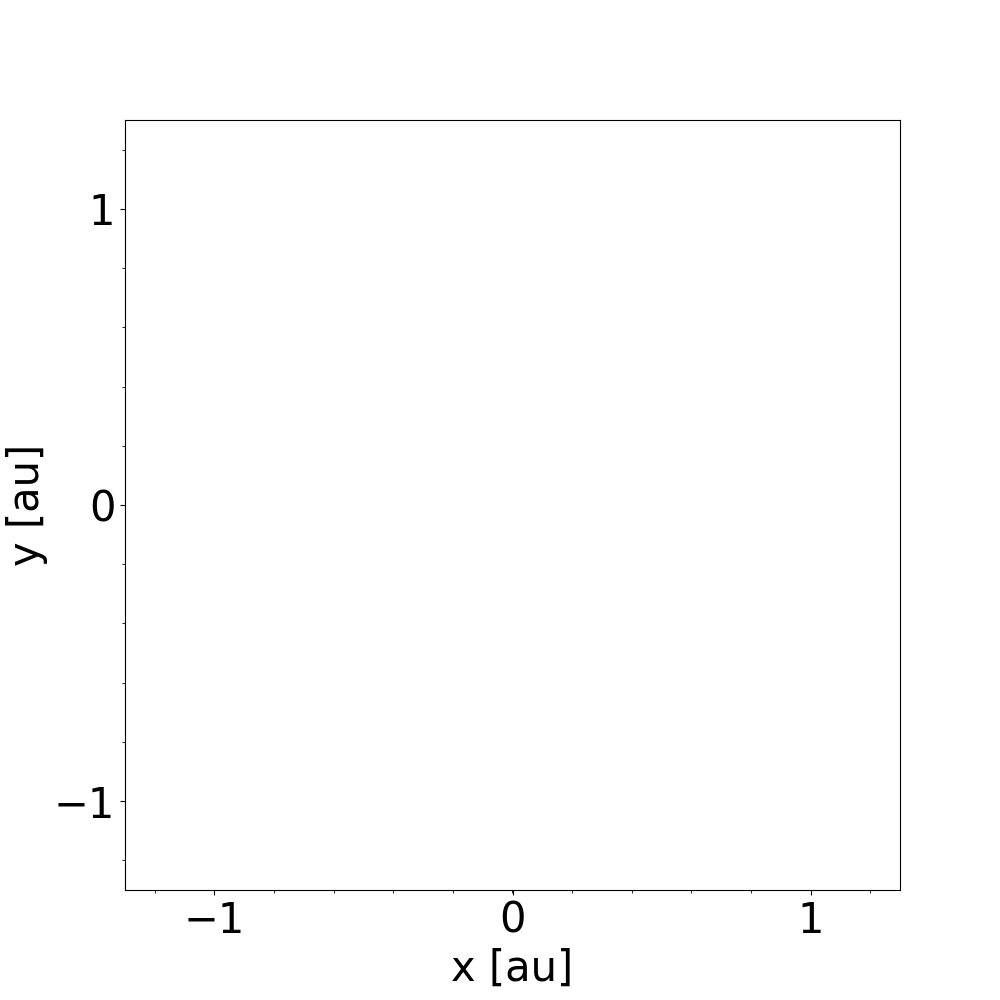
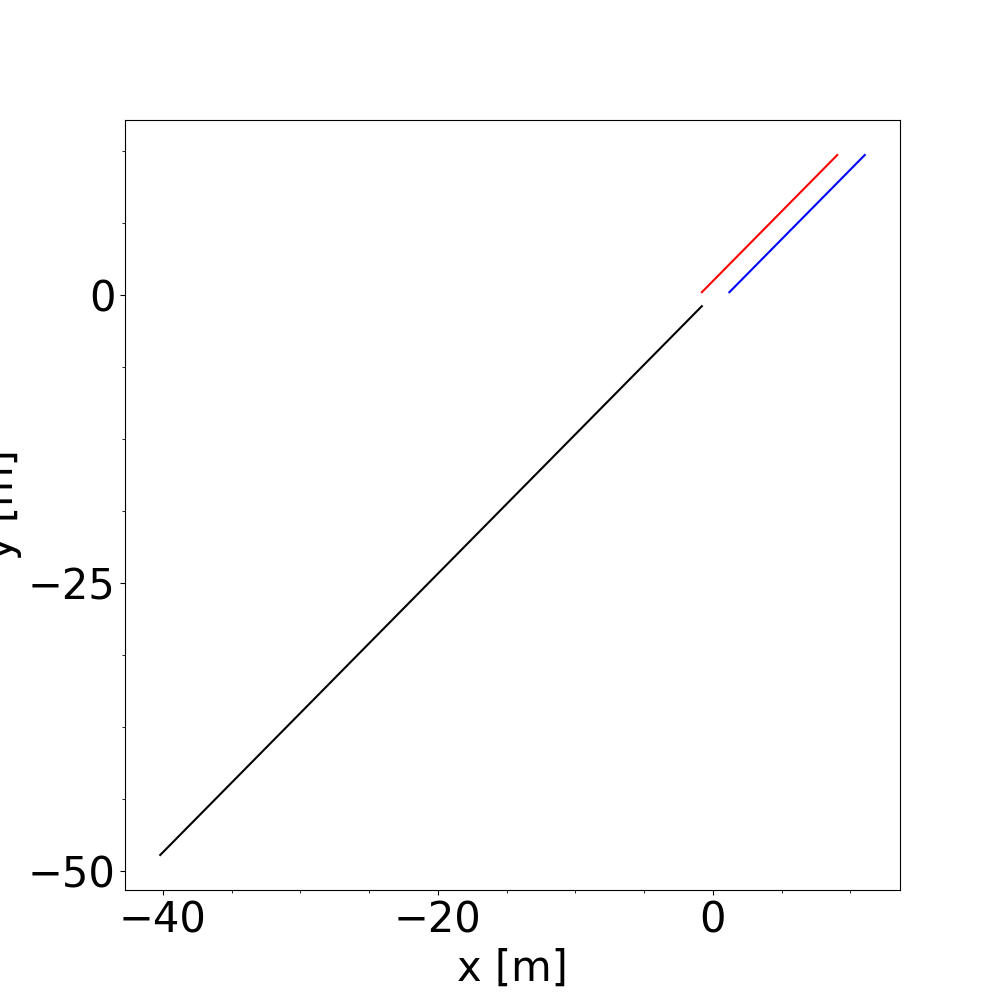
proper nbody units

diff --git a/sun_venus_earth_with_units.py b/sun_venus_earth_with_units.py
@@ -1,29 +1,31 @@
 ###BOOKLISTSTART1###
 from amuse.lab import Particles, units
+from amuse.lab import SmallN, Huayno, nbody_system
+    
 
 v1 = 0.2009656237
 v2 = 0.2431076328
-T = 19.0134164290 | units.yr
+T = 20 | nbody_system.time
 
 def sun_venus_and_earth():
     particles = Particles(3)
     sun = particles[0]
-    sun.mass = 1.0 | units.MSun
-    sun.radius = 1.0 | units.RSun
-    sun.position = (-1, 0., 0.) | units.AU
-    sun.velocity = (v1, v2, 0) | (units.AU / units.yr)
+    sun.mass = 1.0 | nbody_system.mass
+    #sun.radius = 1.0 | units.RSun
+    sun.position = (-1, 0., 0.) | nbody_system.length
+    sun.velocity = (v1, v2, 0) | nbody_system.speed
     
     venus = particles[1]
-    venus.mass = 1.0 | units.MSun
-    venus.radius = 1.0 | units.RSun
-    venus.position = (1., 0., 0.) | units.AU
-    venus.velocity = (v1, v2, 0.) | (units.AU / units.yr)
+    venus.mass = 1.0 | nbody_system.mass
+    #venus.radius = 1.0 | units.RSun
+    venus.position = (1., 0., 0.) | nbody_system.length
+    venus.velocity = (v1, v2, 0.) | nbody_system.speed
     
     earth = particles[2]
-    earth.mass = 0.5 | units.MSun
-    earth.radius = 0.79 | units.RSun
-    earth.position = (0., 0., 0.) | units.AU
-    earth.velocity = (-4 * v1, -4 * v2, 0.) | (units.AU / units.yr)
+    earth.mass = 0.5 | nbody_system.mass
+    #earth.radius = 1.0 | units.RSun
+    earth.position = (0., 0., 0.) | nbody_system.length
+    earth.velocity = (-4 * v1, -4 * v2, 0.) | nbody_system.speed
     
     particles.move_to_center()
     return particles
@@ -31,32 +33,30 @@ def sun_venus_and_earth():
 
 ###BOOKLISTSTART2###
 def integrate_solar_system(particles, end_time):
-    from amuse.lab import SmallN, nbody_system
-    from amuse.units.generic_unit_converter import ConvertBetweenGenericAndSiUnits
     from amuse.units import constants, units
     #print(particles)
-    convert_body = nbody_system.nbody_to_si(particles.mass.sum(),
-                                            particles[1].position.length())
+    #convert_body = nbody_system.nbody_to_si(particles.mass.sum(),
+    #                                        particles[1].position.length())
 
-    gravity = SmallN(convert_body)
+    gravity = Huayno()
     gravity.particles.add_particles(particles)
     sun = gravity.particles[0]
     venus = gravity.particles[1]
     earth = gravity.particles[2]
     
     
-    x_earth = [] | units.AU
-    y_earth = [] | units.AU
-    x_venus = [] | units.AU
-    y_venus = [] | units.AU
-    x_sun = [] | units.AU
-    y_sun = [] | units.AU
+    x_earth = [] | nbody_system.length
+    y_earth = [] | nbody_system.length
+    x_venus = [] | nbody_system.length
+    y_venus = [] | nbody_system.length
+    x_sun = [] | nbody_system.length
+    y_sun = [] | nbody_system.length
     
     while gravity.model_time < end_time:
         
-        gravity.evolve_model(gravity.model_time + (1 | units.day))
+        gravity.evolve_model(gravity.model_time + (0.001 | nbody_system.time))
         x_sun.append(sun.x)
-	y_sun.append(sun.y)
+        y_sun.append(sun.y)
         x_earth.append(earth.x)
         y_earth.append(earth.y)
         x_venus.append(venus.x)
@@ -76,15 +76,15 @@ def plot_track(xs,ys,xe,ye,xv,yv, output_filename):
     ax.minorticks_on() 
     ax.locator_params(nbins=3)
 
-    x_label = 'x [AU]'
-    y_label = 'y [AU]'
+    x_label = 'x'
+    y_label = 'y'
     pyplot.xlabel(x_label)
     pyplot.ylabel(y_label)
 
     
-    plot.plot(xe.value_in(units.AU), ye.value_in(units.AU), color = 'b')
-    plot.plot(xv.value_in(units.AU), yv.value_in(units.AU), color = 'r')
-    plot.plot(xs.value_in(units.AU), ys.value_in(units.AU), color = 'k')
+    plot.plot(xe.value_in(nbody_system.length), ye.value_in(nbody_system.length), color = 'b')
+    plot.plot(xv.value_in(nbody_system.length), yv.value_in(nbody_system.length), color = 'r')
+    plot.plot(xs.value_in(nbody_system.length), ys.value_in(nbody_system.length), color = 'k')
         
     plot.set_xlim(-1.3, 1.3)
     plot.set_ylim(-1.3, 1.3)

diff --git a/sun_venus_earth.py b/sun_venus_earth.py
@@ -36,11 +36,11 @@ def integrate_solar_system(particles, end_time):
     #print(particles)
     #converter_body = nbody_system.nbody_to_si(particles.mass.sum(),
     #                                       	particles[1].position.length())
-    converter_body = nbody_system.nbody_to_generic(1|units.kg, 1|units.m)
+    converter_body = nbody_system.nbody_to_si(1|units.kg, 1|units.m)
     #print(convert_nbody)
-    converter = ConvertBetweenGenericAndSiUnits(particles)#????????????????????
+    #converter = ConvertBetweenGenericAndSiUnits(particles)#????????????????????
     #gravity = Huayno(converter.to_si(particles))
-    gravity = Huayno(converr_body)
+    gravity = Huayno(converter_body)
     gravity.particles.add_particles(particles)
     sun = gravity.particles[0]
     venus = gravity.particles[1]
